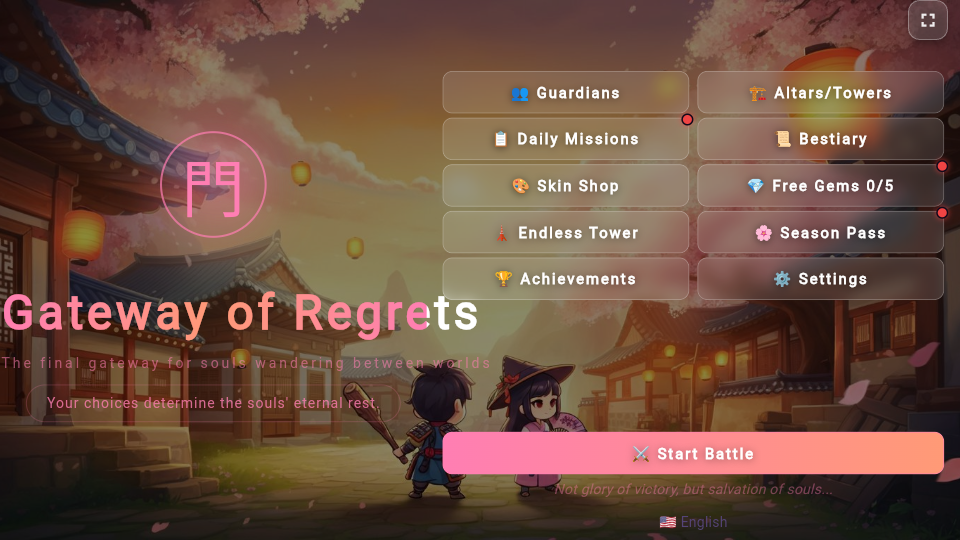
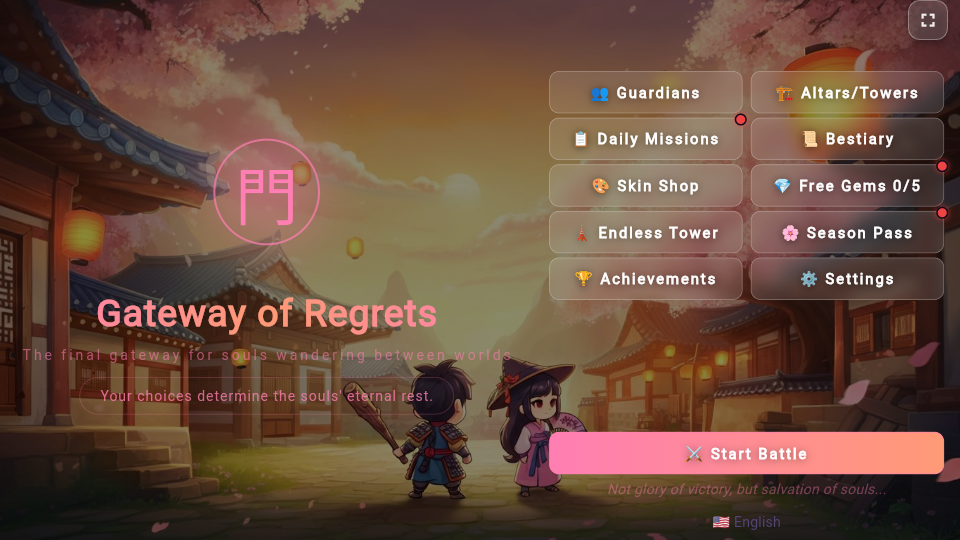
fix: 영문 메인 메뉴 타이틀 그라디언트 버그 수정 + 스크린샷 업데이트
- Expanded(flex:4 → flex:5): 타이틀 영역 427px→533px 확장으로 영문 오버플로 근본 해소
- LayoutBuilder+ShaderMask+SizedBox(maxWidth)+FittedBox 패턴: ShaderMask 범위 내에
  텍스트가 절대 초과하지 않도록 보장 (CanvasKit 오버플로 픽셀 그라디언트 미적용 버그 우회)
- 버튼 영역: flex:5 → flex:4 (427px, 기존과 동일하여 레이아웃 영향 없음)
- store_assets: phone_01/ss_01 스크린샷 재촬영 (영문 타이틀 전체 핑크 그라디언트 확인)

diff --git a/lib/ui/menus/main_menu.dart b/lib/ui/menus/main_menu.dart
@@ -68,14 +68,14 @@ class MainMenu extends ConsumerWidget {
                 // ── 가로 모드: 좌(타이틀) + 우(버튼) ──
                 return Row(
                   children: [
-                    // 왼쪽: 타이틀 영역
+                    // 왼쪽: 타이틀 영역 (flex:5 → 영문 타이틀 오버플로 방지)
                     Expanded(
-                      flex: 4,
+                      flex: 5,
                       child: _buildTitleSection(context, lang, s),
                     ),
                     // 오른쪽: 버튼 영역
                     Expanded(
-                      flex: 5,
+                      flex: 4,
                       child: _buildButtonSection(context, ref, lang, s, isLandscape: true),
                     ),
                   ],
@@ -150,21 +150,30 @@ class MainMenu extends ConsumerWidget {
 
           SizedBox(height: 28 * s),
 
-          // 게임 타이틀
-          ShaderMask(
-            shaderCallback: (bounds) => const LinearGradient(
-              colors: [AppColors.cherryBlossom, AppColors.peachCoral, AppColors.cherryBlossom],
-            ).createShader(bounds),
-            child: Text(
-              AppStrings.get(lang, 'app_title'),
-              maxLines: 1,
-              softWrap: false,
-              overflow: TextOverflow.visible,
-              style: TextStyle(
-                fontSize: Responsive.fontSize(context, 48),
-                fontWeight: FontWeight.bold,
-                color: Colors.white,
-                letterSpacing: 4 * s,
+          // 게임 타이틀 — LayoutBuilder로 실제 너비 확보 후 ShaderMask 적용
+          // SizedBox(width) + FittedBox로 텍스트가 ShaderMask 영역을 절대 초과하지 않도록 보장
+          LayoutBuilder(
+            builder: (ctx, c) => ShaderMask(
+              shaderCallback: (bounds) => const LinearGradient(
+                colors: [AppColors.cherryBlossom, AppColors.peachCoral, AppColors.cherryBlossom],
+              ).createShader(bounds),
+              blendMode: BlendMode.srcIn,
+              child: SizedBox(
+                width: c.maxWidth,
+                child: FittedBox(
+                  fit: BoxFit.scaleDown,
+                  child: Text(
+                    AppStrings.get(lang, 'app_title'),
+                    maxLines: 1,
+                    softWrap: false,
+                    style: TextStyle(
+                      fontSize: Responsive.fontSize(context, 38),
+                      fontWeight: FontWeight.bold,
+                      letterSpacing: 1 * s,
+                      color: Colors.white,
+                    ),
+                  ),
+                ),
               ),
             ),
           ),
